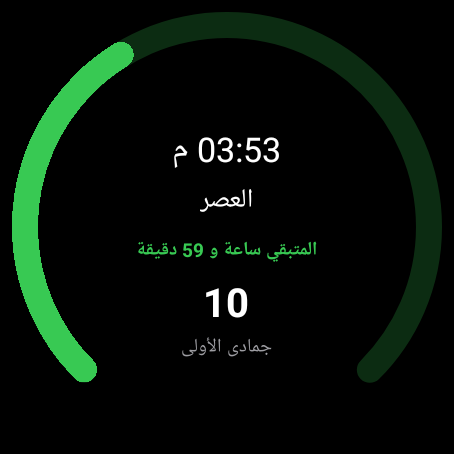
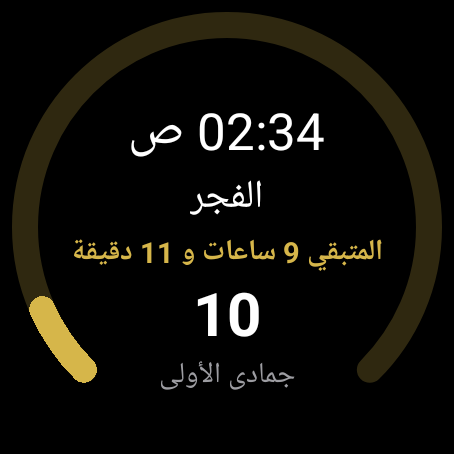
README: user-facing only - drop all technical sections, version/build badges, signing and fixes notes, and every emulator mention; RTL tables; watch section covers tile iqama counter, adhan alert styles, One UI settings sections; tile screenshot updated to the new design (dev, no release)

diff --git a/README.md b/README.md
@@ -5,10 +5,8 @@
   <p>مواقيت دقيقة بحسب موقع المستخدم، تنبيهات أذان وإقامة لكل صلاة، بوصلة قبلة، محوّل تاريخ هجري، ومكتبة أذكار مع إحصائيات تتابع الالتزام اليومي — بواجهة عصرية مستوحاة من One UI.</p>
 
   <p>
-    <a href="https://github.com/MohamedElnaggar00/Wathkkir/actions/workflows/build-apk.yml"><img src="https://github.com/MohamedElnaggar00/Wathkkir/actions/workflows/build-apk.yml/badge.svg" alt="حالة البناء"></a>
-    <img src="https://img.shields.io/badge/version-3.3.2-blue" alt="الإصدار 3.3.2">
     <img src="https://img.shields.io/badge/platform-Android-green?logo=android" alt="Android">
-    <img src="https://img.shields.io/badge/language-Kotlin-purple?logo=kotlin" alt="Kotlin">
+    <img src="https://img.shields.io/badge/platform-Wear%20OS-blue?logo=wearos" alt="Wear OS">
     <img src="https://img.shields.io/badge/UI%20languages-11-orange" alt="11 لغة">
   </p>
 
@@ -21,12 +19,10 @@
 
 - [نظرة عامة](#-نظرة-عامة)
 - [الميزات الرئيسية](#-الميزات-الرئيسية)
-- [ما الجديد في الإصدار 3.3.x](#-ما-الجديد-في-الإصدار-33x)
-- [لقطات الشاشة](#-لقطات-الشاشة)
-- [تطبيق Wear OS](#-تطبيق-wear-os)
+- [أحدث الإضافات](#-أحدث-الإضافات)
+- [معرض الصور](#-معرض-الصور)
+- [تطبيق الساعة](#-تطبيق-الساعة)
 - [اللغات المدعومة](#-اللغات-المدعومة)
-- [التقنيات المستخدمة](#-التقنيات-المستخدمة)
-- [البناء من المصدر](#-البناء-من-المصدر)
 - [التحميل](#-التحميل)
 
 ---
@@ -37,6 +33,8 @@
 
 ## ✨ الميزات الرئيسية
 
+<div dir="rtl">
+
 | القسم | الميزات |
 |---|---|
 | 🕌 **مواقيت الصلاة** | تحديد الموقع تلقائيًا عبر GPS أو يدويًا باختيار الدولة والمدينة، ثماني طرق حساب معتمدة (الهيئة المصرية العامة للمساحة، أم القرى، رابطة العالم الإسلامي، أمريكا الشمالية ISNA، جامعة كراتشي، الكويت، قطر، دبي)، اختيار المذهب الفقهي لحساب العصر (شافعي أو حنفي)، قواعد خطوط العرض العالية، وتعديل يدوي بالدقائق لكل صلاة على حدة مع تعديل التاريخ الهجري. |
@@ -45,24 +43,26 @@
 | 🕰 **مواقيت إضافية** | صفوف اختيارية في شاشة الصلاة: الإمساك (قبل الفجر بعشر دقائق)، الضحى، منتصف الليل، وقيام الليل (بداية الثلث الأخير) — تُفعَّل من الإعدادات بحسب الحاجة. |
 | 📅 **محوّل التاريخ** | صندوق واحد بمفتاح بأسلوب One UI للتبديل بين الاتجاهين (ميلادي إلى هجري أو هجري إلى ميلادي)، وقائمة الأشهر تتبع الاتجاه، وزر «اليوم» في الوسط، وفق تقويم أم القرى مع عرض اليوم الأسبوعي. |
 | 📿 **الأذكار وحصن المسلم** | مكتبة أذكار كاملة من حصن المسلم مرتبة في فصول، إضافة أذكار خاصة وتنظيمها بتصنيفات ملوّنة، أذكار مفضلة، تذكيرات بأوقات مخصصة، وأدعية نبوية مضافة مسبقًا. |
-| 📊 **الإحصائيات** | متابعة الالتزام اليومي: عدد الأذكار المقروءة اليوم وهذا الأسبوع وهذا الشهر، وسلسلة الأيام المتتالية (Streak). |
+| 📊 **الإحصائيات** | متابعة الالتزام اليومي: عدد الأذكار المقروءة اليوم وهذا الأسبوع وهذا الشهر، وسلسلة الأيام المتتالية. |
 | 🔢 **المسبحة** | عدّاد تسبيح يحفظ التقدّم حتى بعد إغلاق التطبيق. |
 | 📱 **ودجت شاشة القفل** | ودجت قابلة للتخصيص بالكامل (الألوان، الخلفية، النص) تعرض المواقيت على شاشة القفل. |
 | 🎨 **التخصيص** | إحدى عشرة لغة للواجهة مع دعم كامل للاتجاهين RTL وLTR، وضع فاتح وداكن وتلقائي، وخطوط عربية متعددة (القاهرة، النسخ، الأميري، الرقعة). |
 
+</div>
+
 <details>
 <summary><b>🔔 تفاصيل إضافية عن نظام التنبيهات</b></summary>
 
-- تُجدول إشعارات التنبيه بدقة (Exact Alarms) وتُعاد جدولتها تلقائيًا بعد إعادة تشغيل الجهاز.
+- تصل التنبيهات في وقتها بدقة، وتُعاد جدولتها تلقائيًا بعد إعادة تشغيل الجهاز.
 - لكل صلاة نافذة إعداد مستقلة بالضغط المطوّل على جرسها: التوقيت بدقة دقيقة واحدة، إشعار الإقامة، وعدم الإزعاج التلقائي.
 - عند عدم منح إذن الوصول إلى وضع عدم الإزعاج، يوجّه التطبيق المستخدمَ إلى شاشة الإذن في النظام بدلًا من تفعيل شكلي لا يعمل.
 
 </details>
 
-## 🆕 ما الجديد في الإصدار 3.3.x
+## 🆕 أحدث الإضافات
 
 - **منبه صلاة الفجر** بشاشة كاملة وصفحة إعدادات خاصة: نغمة أو ملف صوتي، مستوى الصوت، الاهتزاز، الرنين قبل الأذان و/أو بعده، مدة الرنين، مدة الغفوة، وزر تجربة.
-- **قوائم ونوافذ بأسلوب One UI** في كل التطبيق، وأزرار «تطبيق» و«إلغاء» في المنتقيات، وهي الآن تتبع حجم الخط الذي تختاره.
+- **قوائم ونوافذ بأسلوب One UI** في كل التطبيق، وأزرار «تطبيق» و«إلغاء» في المنتقيات، وهي تتبع حجم الخط الذي يختاره المستخدم.
 - **حجم الخط** بمنزلق من تسع درجات في الإعدادات ثم المظهر.
 - **حصن المسلم**: بحث، زر «تمت القراءة»، ملاحظات، ألوان للعدّاد، مفضلة افتراضية، وزر إضافة إلى أذكاري.
 - **نغمة واهتزاز مستقلان لكل صلاة**، مع اهتزاز لمس على عناصر التحكم التي تغيّر حالة فقط، ويتبع إعداد الاهتزاز.
@@ -71,71 +71,42 @@
 - **محوّل تاريخ بتصميم جديد**: صندوق واحد ومفتاح اتجاه بأسلوب One UI وزر «اليوم».
 - **عجلات الوقت**: القيمة المختارة داخل إطار الاختيار، وعجلة ص/م من عنصرين فقط بلا تكرار.
 - **عناوين الصفحات**: المسافة فوق العنوان مثل المسافة تحته في كل الصفحات.
-- **ودجت**: ألوان إعدادات الودجت ظاهرة على الخلفية الفاتحة، وودجت الصلاة القادمة 1×1 بلا تداخل بين الأسطر، وأسماء المنتقي بلا أحجام.
-- **إصلاحات**: تقريب المواقيت كما في التقاويم الورقية، وإغلاق إشعارات الأذان والإقامة تلقائيًا بعد خمس دقائق، وعرض الخطوط العربية بشكل صحيح، وتنبيهات بمنبّهات دقيقة بلا تأخير.
 
-آخر الإضافات في 3.3.2: تقريب مواقيت الصلاة إلى أقرب دقيقة بما يطابق التقاويم المعتمدة.
+## 📸 معرض الصور
 
-إصدارات 3.3.x تُحدَّث فوق 3.2.3 مباشرة لأنها موقّعة بالمفتاح نفسه.
-
-## 📸 لقطات الشاشة
-
-<p align="center"><i>لقطات حقيقية من محاكي أندرويد 35.</i></p>
-
-<div align="center">
+<div align="center" dir="rtl">
   <table>
     <tr><td align="center"><img src="docs/screenshots/04-prayer.png" width="200" alt="شاشة الصلاة"><br><sub>شاشة الصلاة</sub></td><td align="center"><img src="docs/screenshots/05-fajr-alarm.png" width="200" alt="منبه صلاة الفجر"><br><sub>منبه صلاة الفجر</sub></td><td align="center"><img src="docs/screenshots/06-hisn.png" width="200" alt="حصن المسلم"><br><sub>حصن المسلم</sub></td></tr>
     <tr><td align="center"><img src="docs/screenshots/07-reminders.png" width="200" alt="التذكيرات"><br><sub>التذكيرات</sub></td><td align="center"><img src="docs/screenshots/08-calendar.png" width="200" alt="التقويم"><br><sub>التقويم</sub></td><td align="center"><img src="docs/screenshots/09-qibla.png" width="200" alt="القبلة"><br><sub>القبلة</sub></td></tr>
     <tr><td align="center"><img src="docs/screenshots/10-menu.png" width="200" alt="قوائم بأسلوب One UI"><br><sub>قوائم بأسلوب One UI</sub></td><td align="center"><img src="docs/screenshots/11-dialog.png" width="200" alt="نوافذ الحوار"><br><sub>نوافذ الحوار</sub></td><td align="center"><img src="docs/screenshots/01-language.png" width="200" alt="بداية الاستخدام: اللغة"><br><sub>بداية الاستخدام: اللغة</sub></td></tr>
-    <tr><td align="center"><img src="docs/screenshots/02-calculation.png" width="200" alt="طريقة الحساب"><br><sub>طريقة الحساب</sub></td><td align="center"><img src="docs/screenshots/03-alerts.png" width="200" alt="تفعيل التنبيهات"><br><sub>تفعيل التنبيهات</sub></td></tr>
-  </table>
-</div>
-
-### 🔄 المحوّل وعجلة الوقت
-
-<p align="center"><i>لقطات حقيقية من محاكي أندرويد 35.</i></p>
-
-<div align="center">
-  <table>
-    <tr><td align="center"><img src="docs/screenshots/12-converter-g2h.png" width="200" alt="محوّل التاريخ: ميلادي إلى هجري"><br><sub>ميلادي إلى هجري</sub></td><td align="center"><img src="docs/screenshots/13-converter-h2g.png" width="200" alt="محوّل التاريخ: هجري إلى ميلادي"><br><sub>هجري إلى ميلادي</sub></td><td align="center"><img src="docs/screenshots/14-time-picker.png" width="200" alt="عجلة الوقت"><br><sub>عجلة الوقت</sub></td></tr>
+    <tr><td align="center"><img src="docs/screenshots/02-calculation.png" width="200" alt="طريقة الحساب"><br><sub>طريقة الحساب</sub></td><td align="center"><img src="docs/screenshots/03-alerts.png" width="200" alt="تفعيل التنبيهات"><br><sub>تفعيل التنبيهات</sub></td><td align="center"><img src="docs/screenshots/14-time-picker.png" width="200" alt="عجلة الوقت"><br><sub>عجلة الوقت</sub></td></tr>
+    <tr><td align="center"><img src="docs/screenshots/12-converter-g2h.png" width="200" alt="محوّل التاريخ: ميلادي إلى هجري"><br><sub>ميلادي إلى هجري</sub></td><td align="center"><img src="docs/screenshots/13-converter-h2g.png" width="200" alt="محوّل التاريخ: هجري إلى ميلادي"><br><sub>هجري إلى ميلادي</sub></td></tr>
   </table>
 </div>
 
 ### 📲 من جهاز حقيقي
 
-<p align="center"><i>لقطات من هاتف المطوّر: شاشة القفل والشاشة الرئيسية وإعدادات الودجت.</i></p>
+<p align="center"><i>لقطات من هاتف حقيقي: شاشة القفل والشاشة الرئيسية وإعدادات الودجت.</i></p>
 
-<div align="center">
+<div align="center" dir="rtl">
   <table>
     <tr><td align="center"><img src="docs/screenshots/p01-lock-widgets.jpg" width="170" alt="ودجت شاشة القفل"><br><sub>شاشة القفل</sub></td><td align="center"><img src="docs/screenshots/p02-lock-widget-picker.jpg" width="170" alt="منتقي ودجت القفل"><br><sub>منتقي ودجت القفل</sub></td><td align="center"><img src="docs/screenshots/p03-lock-widget-picker-2.jpg" width="170" alt="ودجت القفل"><br><sub>ودجت القفل</sub></td><td align="center"><img src="docs/screenshots/p04-lock-widget-picker-3.jpg" width="170" alt="ودجت القفل"><br><sub>ودجت القفل</sub></td></tr>
     <tr><td align="center"><img src="docs/screenshots/p05-home-widgets.jpg" width="170" alt="ودجت الشاشة الرئيسية"><br><sub>ودجت الرئيسية</sub></td><td align="center"><img src="docs/screenshots/p06-home-widget-picker.jpg" width="170" alt="منتقي ودجت الرئيسية"><br><sub>منتقي ودجت الرئيسية</sub></td><td align="center"><img src="docs/screenshots/p07-widget-settings.jpg" width="170" alt="إعدادات الودجت"><br><sub>إعدادات الودجت</sub></td></tr>
   </table>
 </div>
 
-### 📱 ودجت الشاشة الرئيسية
+## ⌚ تطبيق الساعة
 
-<p align="center"><i>عروض فعلية للودجت بالأرقام العربية (يسار) والهندية (يمين) من إصدار 3.3.1.</i></p>
+يُنزَّل تطبيق الساعة كملف منفصل ويعمل على ساعات Wear OS 3 فأحدث. ميزاته:
 
-<div align="center">
-  <img src="docs/screenshots/15-widgets-latin.png" width="440" alt="ودجت بالأرقام العربية">
-  <img src="docs/screenshots/16-widgets-hindi.png" width="440" alt="ودجت بالأرقام الهندية">
-  <p><sub>منتقي الودجت في النظام يعرض معاينة حية بألوان المظهر (أندرويد 12+)؛ على الأنظمة الأقدم تظهر صورة ثابتة.</sub></p>
-</div>
+- **مواقيت الصلاة على المعصم**: الصلاة القادمة مع الوقت المتبقي، التاريخ الهجري والميلادي، وقائمة مواقيت اليوم كاملة.
+- **بلاطة (Tile) بقوس تقدّم** يوضح مجرى الوقت حتى الصلاة القادمة، وعدّاد للإقامة بعد الأذان، مع معاينة في منتقي البلاطات.
+- **قطع (Complications) لوجه الساعة**: عدّ تنازلي للصلاة القادمة بحلقة تقدّم، وقت الصلاة القادمة، التاريخ الهجري، التاريخ الميلادي، أو التاريخان معًا.
+- **تنبيه الأذان على الساعة** مع اختيار أسلوب التنبيه: إشعار عادي أو إشعار بملء الشاشة.
+- **بوصلة قبلة** على الساعة.
+- **إعدادات بأسلوب One UI** مرتبة في أقسام: المظهر (خلفيات مزخرفة، ألوان السمات، نوع الخط، وحجم الخط)، الإشعارات، اللغة والموقع (مزامنة مع الهاتف أو اختيار يدوي)، وقسم «معلومات حول التطبيق» الذي يعرض رقم الإصدار.
 
-## ⌚ تطبيق Wear OS
-
-يُنشر تطبيق الساعة كملف APK منفصل (Wear OS 3 فأعلى). ميزات الإصدار الحالي 1.0.2:
-
-- مواقيت الصلاة على الساعة: الصلاة القادمة مع الوقت المتبقي، التاريخان الهجري والميلادي، وقائمة اليوم الكاملة.
-- بلاطة (Tile) بقوس تقدّم للصلاة، مع معاينة في منتقي البلاطات.
-- قطع (Complications) لوجه الساعة: عدّ تنازلي للصلاة القادمة بحلقة تقدّم، وقت الصلاة القادمة، التاريخ الهجري، التاريخ الميلادي، وتاريخان معًا.
-- بوصلة قبلة على الساعة.
-- تنبيه أذان على الساعة.
-- إعدادات كاملة: اللغة (مزامنة مع الهاتف أو عربي أو إنجليزي)، خلفيات مزخرفة، ألوان السمات، مصدر الموقع (الهاتف أو GPS)، وتشغيل الأذان.
-
-<p align="center"><i>لقطات حقيقية من محاكي Wear OS 4 على الإصدار 1.0.2.</i></p>
-
-<div align="center">
+<div align="center" dir="rtl">
   <table>
     <tr><td align="center"><img src="docs/screenshots/w01-tile.png" width="170" alt="بلاطة الساعة"><br><sub>بلاطة الساعة</sub></td><td align="center"><img src="docs/screenshots/w02-main.png" width="170" alt="الشاشة الرئيسية"><br><sub>الشاشة الرئيسية</sub></td><td align="center"><img src="docs/screenshots/w03-countdown.png" width="170" alt="قطعة العد التنازلي"><br><sub>قطعة العد التنازلي</sub></td></tr>
   </table>
@@ -145,28 +116,9 @@
 
 العربية · English · Français · Deutsch · Español · Italiano · Türkçe · اردو · Indonesia · Русский · Português
 
-## 🛠 التقنيات المستخدمة
-
-- **اللغة**: Kotlin
-- **الواجهة**: Jetpack Compose مع Material 3 وتصميم مخصص مستوحى من One UI
-- **قاعدة البيانات**: Room لتخزين الأذكار والتصنيفات والإحصائيات محليًا
-- **حساب المواقيت**: مكتبة حساب فلكية مع تقويم أم القرى للتاريخ الهجري
-- **المعمارية**: MVVM
-- **الإشعارات**: Exact Alarms مع Broadcast Receivers لإعادة الجدولة بعد إقلاع الجهاز
-
-## 🔨 البناء من المصدر
-
-```bash
-git clone https://github.com/MohamedElnaggar00/Wathkkir.git
-cd Wathkkir
-./gradlew assembleDebug
-```
-
-ينتج ملف APK في `app/build/outputs/apk/debug/`. يتطلب البناء JDK 17 وAndroid SDK.
-
 ## 📥 التحميل
 
-- **[أحدث إصدار](https://github.com/MohamedElnaggar00/Wathkkir/releases/latest)**: ملف الهاتف `Wathkkir-3.3.2.apk` وملف الساعة `Wathkkir-Wear-1.0.2.apk`.
+- **[أحدث إصدار](https://github.com/MohamedElnaggar00/Wathkkir/releases/latest)**: ملف الهاتف وملف الساعة.
 - كل الإصدارات: [صفحة الإصدارات](https://github.com/MohamedElnaggar00/Wathkkir/releases).
 
 ---
